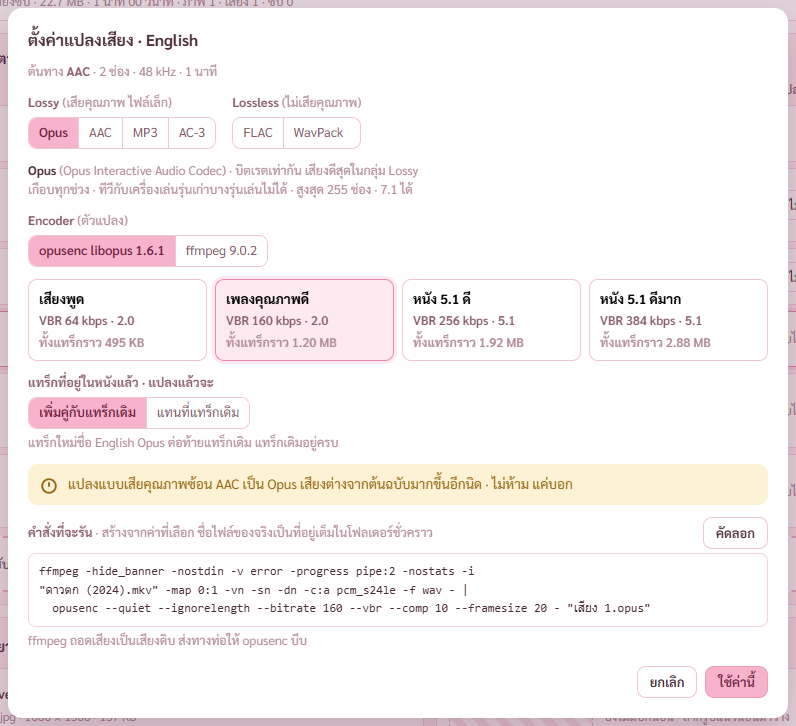
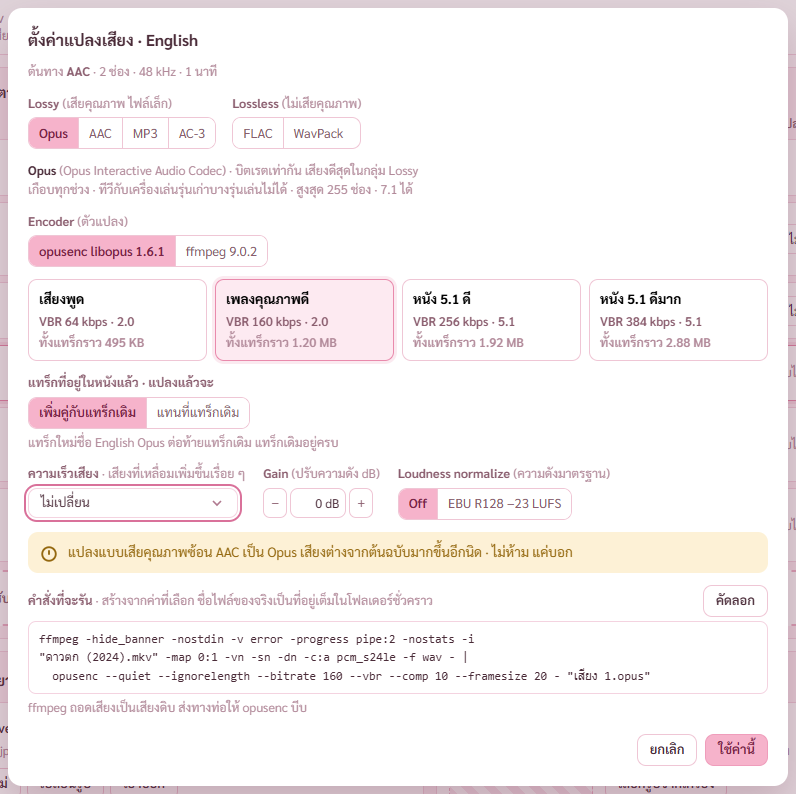
แผนเสียงและซับ ขั้น 4 ส่วนที่สาม แผงตั้งค่าเสียงมีช่องความเร็วเสียง (25 เป็น 23.976 และคู่อื่น) Gain ความดังมาตรฐาน EBU R128 คำสั่งเปลี่ยนตามทันที
เป้าหมาย
--------
- พี่กันสั่ง *"Commit เสร็จ เอาลงโปรแกรมให้เสร็จเลย / เทสด้วย"* · ขั้น 4 แผงตั้งค่าเสียง
- มอคอัป การ์ดตั้งค่าแทร็ก *"ความเร็วเสียง ... เลือกคู่ความเร็ว เช่น 25 → 23.976 · ต้องแปลงเสียงใหม่ ใช้แผงตั้งค่าเสียง"*
  จุดที่แคลร์ตั้งในมอคอัป *"ความเร็วเสียงมีคู่ที่เจอบ่อย 25 → 23.976 · 24 → 23.976 · 23.976 → 25 · 23.976 → 24"* · การ์ด Gain กับ Loudness normalize ใช้กับทุกชนิด
- พี่กันให้เวลาถึง 23.50 · ฝั่ง Rust ทำได้แล้วใน 5fb4822 รอบนี้ใส่ช่องบนหน้าจอ

ที่ทำ
-----

[1] ช่องความเร็ว Gain ความดังมาตรฐาน — src/components/CodecPanel.tsx (+21 −1) · src/styles/av.css (+3)
------------------------------------------------------------------------------------------------------
เดิม       แผงตั้งค่าเสียงมีแค่ชนิด ตัวแปลง ชุดค่า เพิ่มคู่หรือแทนที่
ใหม่       แถวใหม่ ความเร็วเสียง ช่องเลือก ไม่เปลี่ยน · 25 → 23.976 (แผ่นยุโรป PAL) · 24 → 23.976 · 23.976 → 25 · 23.976 → 24
           บอกใต้แถวเมื่อเลือกความเร็ว ยืดด้วย rubberband ระดับเสียงไม่เพี้ยน ความยาวเปลี่ยนจากกี่วินาทีเป็นราวกี่วินาที
           Gain ปุ่ม − + ทีละ 1 dB ช่วง −12 ถึง +12 · Loudness normalize Off หรือ EBU R128 −23 LUFS
           ค่าทั้งสามเข้า EncodeSpec (speed gain loudnorm) ฝั่ง Rust ใส่ตัวกรอง rubberband volume loudnorm ให้ คำสั่งในกล่องเปลี่ยนตามทันที
           แก้บั๊ก [B1]
ตรวจ       check-av ข้อใหม่ ตั้ง 25 → 23.976 Gain −3 dB ความดังมาตรฐาน คำสั่งมี -af "rubberband=tempo=0.959040,volume=-3dB,loudnorm=I=-23:TP=-1"
           ตั้งกลับแล้วคำสั่งไม่มี -af · ภาพ 11-แผงตั้งค่าเสียง-ความเร็ว.png
[…]

diff --git a/src/components/CodecPanel.tsx b/src/components/CodecPanel.tsx
@@ -4,6 +4,7 @@
    ขั้นสูง การ์ดละช่องพร้อม ⓘ ทำต่อในรอบถัดไป */
 import { useEffect, useMemo, useState } from "react";
 import Dialog from "./Dialog";
+import Dropdown from "./Dropdown";
 import { CardIcon, Phr, Seg } from "./ui";
 import { encodeApi, type EncodePlan, type EncodeSpec, type EncoderInfo, type MergeTrack } from "../lib/api";
 import { CODECS, codecOf, presetSize, type Codec } from "../lib/codecs";
@@ -55,10 +56,15 @@ export default function CodecPanel(p: {
   };
   const engUse = eng && engs.some((e) => e.value === eng && e.ok) ? eng : firstOk;
   const pr = c.presets[pi] ?? c.presets[c.preset];
+  /** ใช้กับทุกชนิด (มอคอัป GAIN LOUD กับช่องความเร็วเสียงในการ์ดตั้งค่าแทร็ก) */
+  const [gain, setGain] = useState<number>(t.convert?.gain ?? 0);
+  const [loud, setLoud] = useState<boolean>(t.convert?.loudnorm ?? false);
+  const [speed, setSpeed] = useState<string>(t.convert?.speed ? t.convert.speed.join(">") : "");
   const spec: EncodeSpec = useMemo(() => ({
     codec: c.id, encoder: engUse, p: pr.p,
     channels: pr.channels && (t.channels ?? 2) > pr.channels ? pr.channels : null,
-  }), [c.id, engUse, pr, t.channels]);
+    gain, loudnorm: loud, speed: speed ? (speed.split(">").map(Number) as [number, number]) : null,
+  }), [c.id, engUse, pr, t.channels, gain, loud, speed]);
 
   useEffect(() => {
     let live = true;
@@ -113,6 +119,20 @@ export default function CodecPanel(p: {
               options={[{ value: "pair", label: "เพิ่มคู่กับแทร็กเดิม" }, { value: "replace", label: "แทนที่แทร็กเดิม" }]} /></div>
             <div className="small" style={{ marginTop: 4 }}>{pair ? `แทร็กใหม่ชื่อ ${name} ต่อท้ายแทร็กเดิม แทร็กเดิมอยู่ครบ` : "แทร็กเดิมถูกแทนที่ด้วยแทร็กที่แปลง"}</div></div>
         )}
+        <div style={{ display: "flex", gap: 18, flexWrap: "wrap", alignItems: "flex-start" }} data-extra>
+          <div><div className="small" style={{ marginBottom: 4 }}><b style={{ color: "var(--txt2)" }}>ความเร็วเสียง</b> · เสียงที่เหลื่อมเพิ่มขึ้นเรื่อย ๆ</div>
+            <Dropdown label="ความเร็วเสียง" value={speed} onChange={setSpeed} options={[
+              { value: "", label: "ไม่เปลี่ยน" }, { value: "25>23.976", label: "25 → 23.976 (แผ่นยุโรป PAL)" }, { value: "24>23.976", label: "24 → 23.976" },
+              { value: "23.976>25", label: "23.976 → 25" }, { value: "23.976>24", label: "23.976 → 24" }]} /></div>
+          <div><div className="small" style={{ marginBottom: 4 }}><b style={{ color: "var(--txt2)" }}>Gain</b> (ปรับความดัง dB)</div>
+            <div className="delay"><button type="button" aria-label="ลดความดัง 1 dB" onClick={() => setGain((g) => Math.max(-12, g - 1))}>−</button>
+              <span className="avnum" style={{ display: "inline-flex", alignItems: "center", justifyContent: "flex-end", width: 56 }} data-gain>{gain > 0 ? `+${gain}` : gain} dB</span>
+              <button type="button" aria-label="เพิ่มความดัง 1 dB" onClick={() => setGain((g) => Math.min(12, g + 1))}>+</button></div></div>
+          <div><div className="small" style={{ marginBottom: 4 }}><b style={{ color: "var(--txt2)" }}>Loudness normalize</b> (ความดังมาตรฐาน)</div>
+            <div style={{ display: "flex" }}><Seg small label="ความดังมาตรฐาน" value={loud ? "on" : "off"} onChange={(v) => setLoud(v === "on")}
+              options={[{ value: "off", label: "Off" }, { value: "on", label: "EBU R128 −23 LUFS" }]} /></div></div>
+        </div>
+        {speed && <div className="small"><Phr>{`ยืดเสียงด้วย rubberband ระดับเสียงไม่เพี้ยน · ความยาวเปลี่ยนจาก ${t.duration ? Math.round(t.duration) : "?"} เป็นราว ${t.duration ? Math.round(t.duration * Number(speed.split(">")[0]) / Number(speed.split(">")[1])) : "?"} วินาที`}</Phr></div>}
         {warn && <div className="stat warn"><CardIcon kind="warn" /><div><Phr>{warn}</Phr> · <Phr>ไม่ห้าม แค่บอก</Phr></div></div>}
         <div>
           <div style={{ display: "flex", justifyContent: "space-between", alignItems: "center", marginBottom: 4 }}>

diff --git a/src/styles/av.css b/src/styles/av.css
@@ -92,3 +92,6 @@
 .avdrop { border: 2px dashed #eeb3c8; border-radius: 10px; background: #fff; display: flex; align-items: center; gap: 10px; padding: 10px 12px; color: var(--txt3); font-size: 13px; margin-top: 8px; transition: background-color .15s, border-color .15s; }
 .avdrop.over { border-color: var(--accent); background: #fdeaf1; color: var(--accent-ink); }
 .avdrop > span { flex: 1; min-width: 0; }
+
+/* ช่องเลือกความเร็วเสียงในแผงตั้งค่าเสียง สูงเท่าปุ่มเล็กข้าง ๆ (เดิม 40 กับ 30 แถวไม่เสมอกัน เจอตอนตรวจภาพ) */
+[data-extra] .dd { height: 30px; font-size: 13px; }

diff --git a/docs/REPORT-2026-11-07-เสียงและซับ-ลงโปรแกรม.md b/docs/REPORT-2026-11-07-เสียงและซับ-ลงโปรแกรม.md
@@ -98,9 +98,13 @@
 - ตัวตรวจจับบั๊กได้ แผงเปิดก่อนรายชื่อตัวแปลงมา ค้างเป็น ffmpeg ทั้งที่มี opusenc · แก้แล้ว
 - เจอในภาพแล้วแก้ กรอบปุ่มเลือกยืดเต็มกว้าง · คำสั่งตัดบรรทัดหลังขีด -i
 
+ความเร็วเสียง (25 → 23.976 และคู่อื่น) · Gain · ความดังมาตรฐาน EBU R128 ใช้กับทุกชนิด คำสั่งเปลี่ยนตามทันที
+
+![ความเร็ว Gain ความดังมาตรฐาน](report-2026-11-07/เสียงซับ-ขั้น2/11-แผงตั้งค่าเสียง-ความเร็ว.png)
+
 ## 6. งานค้าง
 
-- **ขั้น 4 ส่วนที่เหลือ** แผงแบบขั้นสูง การ์ดละช่อง แถบเลื่อนเป็นขั้น ช่องพิมพ์ค่าเอง ขนาดที่คาดทุกการ์ด ⓘ ทุกช่อง ตัวย่อมีคำเต็ม · Gain ความดังมาตรฐาน ความเร็วเสียง ในแผง (ฝั่ง Rust ทำได้แล้ว หน้าจอยังไม่มีช่อง)
+- **ขั้น 4 ส่วนที่เหลือ** แผงแบบขั้นสูง การ์ดละช่อง แถบเลื่อนเป็นขั้น ช่องพิมพ์ค่าเอง ขนาดที่คาดทุกการ์ด ⓘ ทุกช่อง ตัวย่อมีคำเต็ม
 - ขั้น 5 ตัวช่วยหาดีเลย์ · ขั้น 6 ตัวดูซับ · ขั้น 7 จับคู่ไม่รวม · ขั้น 8 หน้ากราฟเสียง คิวแปลง เทียบ Monkey's Audio · ขั้น 9 เทสรวมกับตัวติดตั้ง · ขั้น 10 ผู้ช่วยตรวจ 1 ตัว
 - บวกขนาดไฟล์ที่แปลงในการเช็กที่ว่างก่อนรวม
 - จดโรดแมปตามที่พี่กันแทรก *"ระบบ OCR จากซับภาพเป็น text โดยใช้ระบบแมนนวลคือกรอกเอง และระบบที่ให้ AI ช่วย"* · อยู่ [ROADMAP.md](ROADMAP.md) หัวข้อท้ายสุด
